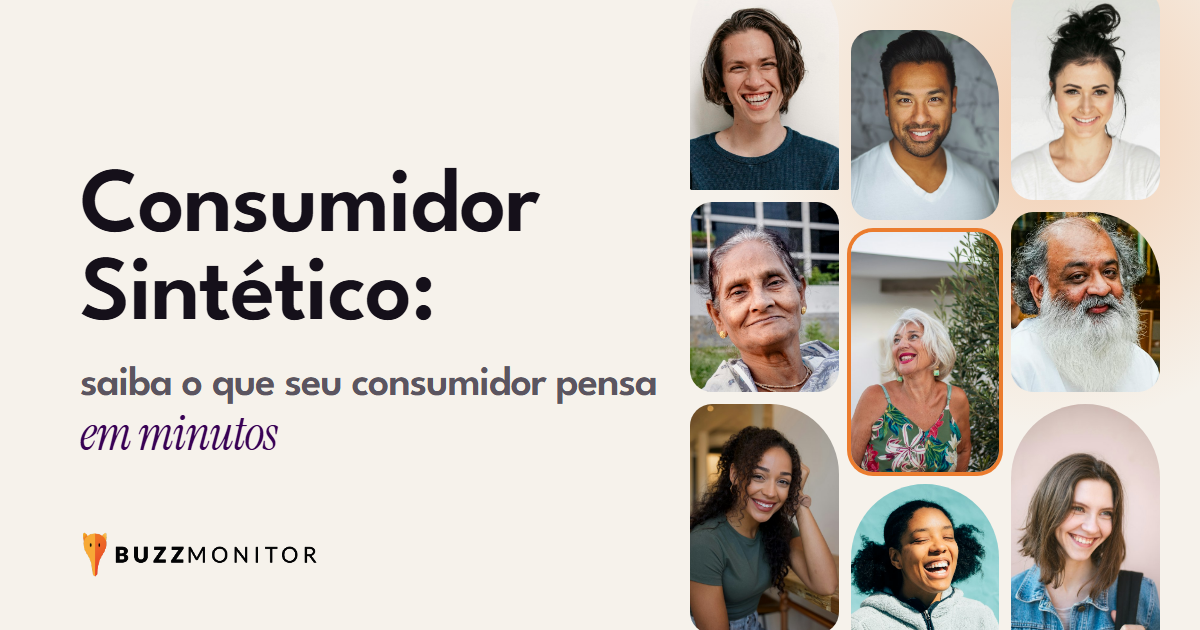
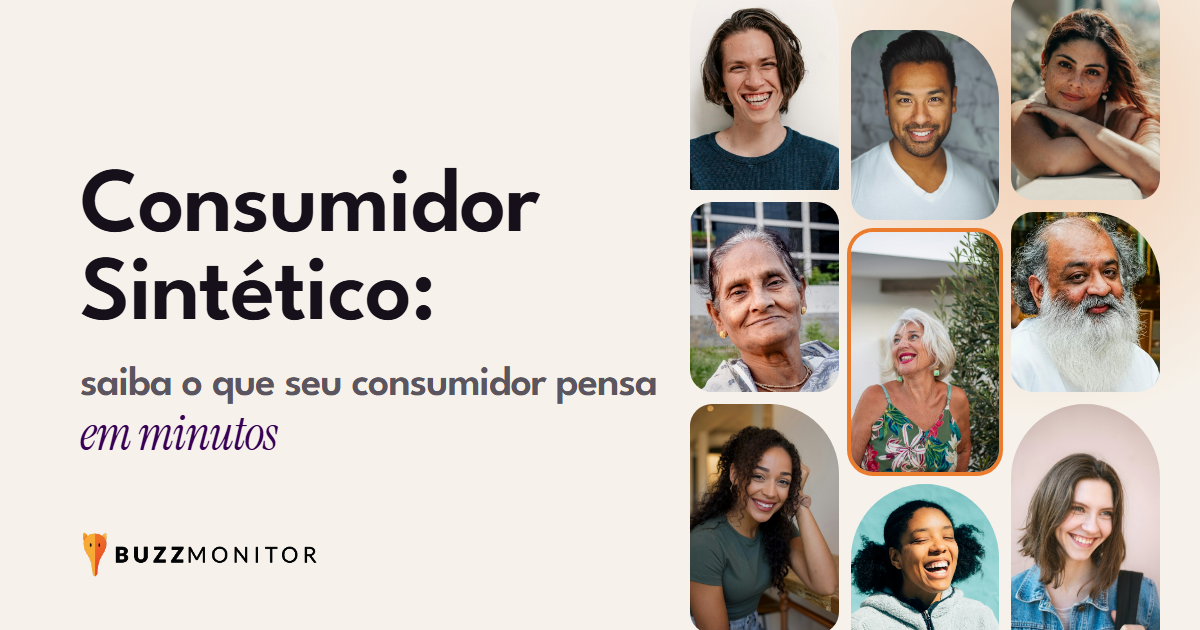
Trocar duas fotos da LP Consumidor Sintético por retratos brasileiros (#975)

Changed region(s): [[0.8325, 0.0, 0.9867, 0.3317]]

diff --git a/landing-pages/buzzmonitor/consumidor-sintetico/index.html b/landing-pages/buzzmonitor/consumidor-sintetico/index.html
@@ -495,7 +495,7 @@ height="0" width="0" style="display:none;visibility:hidden"></iframe></noscript>
         <div class="mosaic" role="img" aria-label="Painel de consumidores sintéticos de diferentes idades, cidades e classes sociais">
           <div class="mcol"><div class="mc mc--pill" style="--h:210"><img src="assets/p-03.jpg" alt="" width="560" height="760" fetchpriority="high"><span class="mtag">19 anos · Porto Alegre · Classe C1</span></div><div class="mc " style="--h:170"><img src="assets/p-06.jpg" alt="" width="560" height="760" decoding="async"><span class="mtag">71 anos · Fortaleza · Classe C2</span></div><div class="mc mc--leaf2" style="--h:190"><img src="assets/p-04.jpg" alt="" width="560" height="760" decoding="async"><span class="mtag">27 anos · Manaus · Classe C2</span></div></div>
           <div class="mcol"><div class="mc mc--leaf" style="--h:170"><img src="assets/p-11.jpg" alt="" width="560" height="760" fetchpriority="high"><span class="mtag">34 anos · Recife · Classe B2</span></div><div class="mc " style="--h:220"><img src="assets/p-07.jpg" alt="" width="560" height="760" decoding="async"><span class="mtag">63 anos · Florianópolis · Classe B1</span></div><div class="mc mc--pill" style="--h:150"><img src="assets/p-05.jpg" alt="" width="560" height="760" decoding="async"><span class="mtag">23 anos · Salvador · Classe C1</span></div></div>
-          <div class="mcol"><div class="mc " style="--h:190"><img src="assets/p-02.jpg" alt="" width="900" height="1100" decoding="async"><span class="mtag">41 anos · São Paulo · Classe B1</span></div><div class="mc mc--leaf" style="--h:160"><img src="assets/p-17.jpg" alt="" width="560" height="760" decoding="async"><span class="mtag">52 anos · Belo Horizonte · Classe A</span></div><div class="mc mc--leaf2" style="--h:230"><img src="assets/p-10.jpg" alt="" width="560" height="760" decoding="async"><span class="mtag">25 anos · Curitiba · Classe B2</span></div></div>
+          <div class="mcol"><div class="mc " style="--h:190"><img src="assets/p-20.jpg" alt="" width="900" height="1100" decoding="async"><span class="mtag">41 anos · São Paulo · Classe B1</span></div><div class="mc mc--leaf" style="--h:160"><img src="assets/p-17.jpg" alt="" width="560" height="760" decoding="async"><span class="mtag">52 anos · Belo Horizonte · Classe A</span></div><div class="mc mc--leaf2" style="--h:230"><img src="assets/p-10.jpg" alt="" width="560" height="760" decoding="async"><span class="mtag">25 anos · Curitiba · Classe B2</span></div></div>
         </div>
         <p class="mosaic__cap" aria-hidden="true"></p>
       </div>
@@ -533,12 +533,12 @@ height="0" width="0" style="display:none;visibility:hidden"></iframe></noscript>
         <p class="sol__body">O Consumidor Sintético simula como um público reage a algo que ainda não foi lançado. Você descreve a audiência em uma linha, como &ldquo;mães jovens em São Paulo&rdquo; ou &ldquo;Geração Z&rdquo;. A ferramenta monta o painel com dados demográficos do IBGE e do Critério Brasil e enriquece com o que esse público já diz nas redes, captado pela Buzzmonitor.</p>
         <div class="sol__spacer" aria-hidden="true"></div>
         <blockquote class="sol__quote">
-          <img src="assets/p-12.jpg" alt="" width="700" height="700" loading="lazy">
+          <img src="assets/p-21.jpg" alt="" width="700" height="700" loading="lazy">
           <p>O social listening mostra o que o seu público já disse. <span>O Consumidor Sintético simula o que ele diria.</span></p>
         </blockquote>
       </div>
       <div class="sol__photo reveal">
-        <img src="assets/p-02.jpg" alt="" width="900" height="1100" loading="lazy">
+        <img src="assets/p-20.jpg" alt="" width="900" height="1100" loading="lazy">
         <div class="stats">
           <div class="stat"><b>1.000</b><p>Até 1.000 consumidores sintéticos por audiência.</p></div>
           <div class="stat"><b>IBGE</b><p>Características reais, da base populacional do IBGE</p></div>

diff --git a/landing-pages/buzzmonitor/consumidor-sintetico/README.md b/landing-pages/buzzmonitor/consumidor-sintetico/README.md
@@ -47,7 +47,6 @@ Arquivos em `assets/`, recortados e comprimidos para web (~970 KB no total). IDs
 
 | Arquivo | Photo ID |
 |---|---|
-| p-02.jpg | 1580489944761-15a19d654956 |
 | p-03.jpg | 1611695434369-a8f5d76ceb7b |
 | p-04.jpg | 1662850886700-4ec19bd30d11 |
 | p-05.jpg | 1573515159471-0eb7ec72912c |
@@ -56,9 +55,10 @@ Arquivos em `assets/`, recortados e comprimidos para web (~970 KB no total). IDs
 | p-08.jpg | 1604261605115-4b34b646a05c |
 | p-10.jpg | 1588676478223-cea188261d35 |
 | p-11.jpg | 1507003211169-0a1dd7228f2d |
-| p-12.jpg | 1583264277168-58ceba4b84e7 |
 | p-13.jpg | 1600603406200-5b2a104684ac |
 | p-17.jpg | 1779630986800-f0ed643f357b |
+| p-20.jpg | 1772989665252-7cb41ae759cc |
+| p-21.jpg | 1695927621677-ec96e048dce2 |
 
 ## Pendências
 
